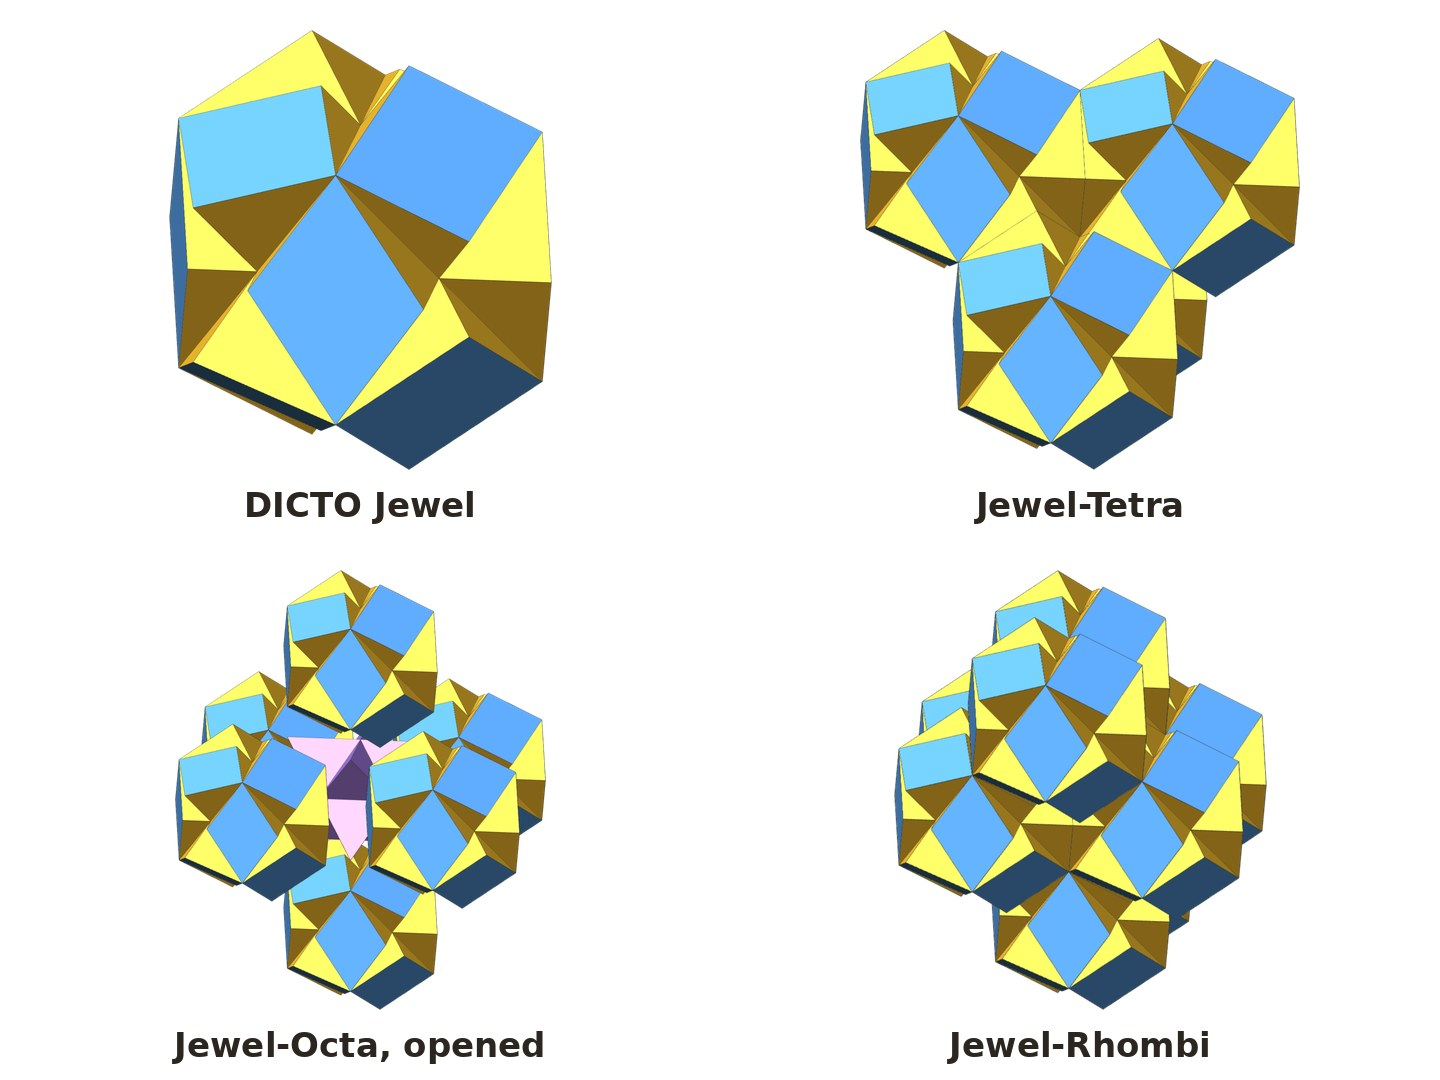
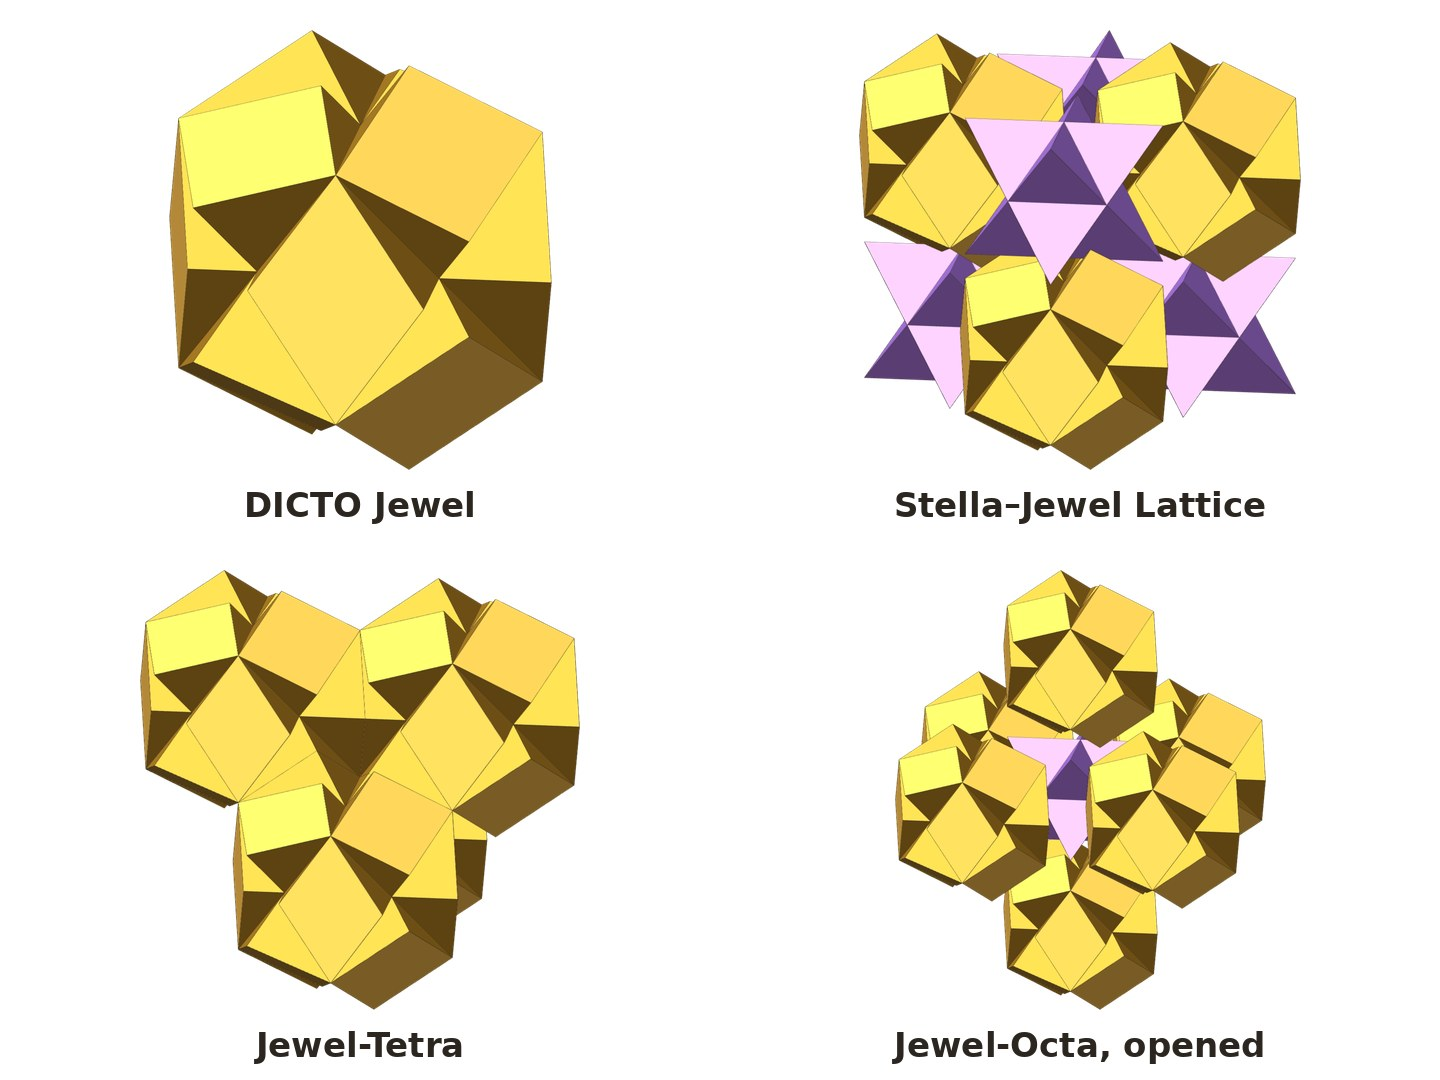
#41 card image in the app's gold and purple

diff --git a/index.html b/index.html
@@ -145,7 +145,7 @@
     <p class="disc-note">Short papers by DICTO, with the checks behind every claim.</p>
     <div class="papers">
       <div class="paper feature"><img src="papers/vajrayana.jpg?v=3" alt="Vajrayana: the Cleo star build pulled apart, assembled inside the dodecahedron D′, and in the cycle; below, the twelve stations of the golden cycle at true scale" loading="eager" width="1776" height="999"><span class="t"><span class="num">#35</span> Vajrayana</span><span class="s">A companion to Progenitors. The dodecahedron returns inside the golden cycle as the hull of DICTO's Cleo star, filled exactly by 82 pieces of four kinds. The last loose step, from the rhombic triacontahedron to the next icosahedron, is closed by a new solid that touches both, the DICTO Metaxyhexecontahedron, each of its two layers one kind of piece. The cycle grows to twelve stations. Exact in every step.</span><span class="pdoi"><a class="doi-badge" href="https://doi.org/10.5281/zenodo.23429911" title="DICTO DOI, always the newest version"><span>DICTO DOI</span><span>10.5281/zenodo.23429911</span></a></span><span class="btns"><a class="btn" href="https://doi.org/10.5281/zenodo.23429911">Read paper</a><a class="btn" href="https://kaleidohedra.dictospheres.com/?open=vajrayana">View in app</a></span></div>
-      <div class="paper"><img src="papers/dicto-jewel.jpg?v=1" alt="The DICTO Jewel, the DICTO Jewel-Tetra, the DICTO Jewel-Octa opened to show its stella, and the DICTO Jewel-Rhombi" loading="lazy" width="1440" height="1080"><span class="t"><span class="num">#41</span> The DICTO Jewel</span><span class="s">Euclid's dodecahedron carved by its neighbours' stellas: twelve Penrose windows, volume exactly 3/16 of a Hexa's cube, and with stellas it fills space. The Jewel-Tetra, Jewel-Octa and Jewel-Rhombi as single solids, every way they tile with loose stellas, the octet pattern, and the Hexa and Hexa-Key, all proved exactly.</span><span class="pdoi"><a class="doi-badge" href="https://doi.org/10.5281/zenodo.23496353" title="DICTO DOI, always the newest version"><span>DICTO DOI</span><span>10.5281/zenodo.23496353</span></a></span><span class="btns"><a class="btn" href="https://doi.org/10.5281/zenodo.23496353">Read paper</a><a class="btn" href="https://kaleidohedra.dictospheres.com/?open=stellaJewel">View in app</a></span></div>
+      <div class="paper"><img src="papers/dicto-jewel.jpg?v=2" alt="The DICTO Jewel, the Stella–Jewel Lattice (gold Jewels, purple stellas), the DICTO Jewel-Tetra, and the DICTO Jewel-Octa opened to show its stella" loading="lazy" width="1440" height="1080"><span class="t"><span class="num">#41</span> The DICTO Jewel</span><span class="s">Euclid's dodecahedron carved by its neighbours' stellas: twelve Penrose windows, volume exactly 3/16 of a Hexa's cube, and with stellas it fills space. The Jewel-Tetra, Jewel-Octa and Jewel-Rhombi as single solids, every way they tile with loose stellas, the octet pattern, and the Hexa and Hexa-Key, all proved exactly.</span><span class="pdoi"><a class="doi-badge" href="https://doi.org/10.5281/zenodo.23496353" title="DICTO DOI, always the newest version"><span>DICTO DOI</span><span>10.5281/zenodo.23496353</span></a></span><span class="btns"><a class="btn" href="https://doi.org/10.5281/zenodo.23496353">Read paper</a><a class="btn" href="https://kaleidohedra.dictospheres.com/?open=stellaJewel">View in app</a></span></div>
       <div class="paper"><img src="papers/og-polytypes.jpg?v=1" alt="The DICTO OG Family on Every Stacking: OGs on the 3C, 2H, 6H and Fibonacci stackings, mirror twins in blue" loading="lazy" width="1440" height="1080"><span class="t"><span class="num">#40</span> The DICTO OG Family on Every Stacking</span><span class="s">The OG on every stacking: one exact kit builds the octet, the gyrated octet, the classical polytypes and a Fibonacci crystal that never repeats. Two short rules say why: the twin rule (the mirror twin is the solid turned 60°, the spinel law) and the fit rule (a solid that stays in its layer fits every stacking). The DBT fits every stacking; its two flat cuts are exactly what the golden envelope lacks.</span><span class="pdoi"><a class="doi-badge" href="https://doi.org/10.5281/zenodo.23490114" title="DICTO DOI, always the newest version"><span>DICTO DOI</span><span>10.5281/zenodo.23490114</span></a></span><span class="btns"><a class="btn" href="https://doi.org/10.5281/zenodo.23490114">Read paper</a><a class="btn" href="https://kaleidohedra.dictospheres.com/?open=octetTruss:gyrated">View in app</a></span></div>
       <div class="paper"><img src="papers/og-family.jpg?v=1" alt="The DICTO OG Family: four solids down (DICTO TQHD, TQP, TQH, TPH), the OG, and four up (DICTO KRE, PHE, TPP, DPHP), true relative size" loading="lazy" width="1440" height="1080"><span class="t"><span class="num">#39</span> The DICTO OG Family</span><span class="s">Four Steps Up and Four Down. Universal PiTet's step run from the Ogdoecontahedron, outward and in reverse: eight new icosahedral solids, the DICTO KRE, PHE, TPP and DPHP up and the DICTO TPH, TQH, TQP and TQHD down, all exact. Near the OG the shells nest and are filled exactly by one piece per face; then both directions break the same way, 60 corners poking through.</span><span class="pdoi"><a class="doi-badge" href="https://doi.org/10.5281/zenodo.23488944" title="DICTO DOI, always the newest version"><span>DICTO DOI</span><span>10.5281/zenodo.23488944</span></a></span><span class="btns"><a class="btn" href="https://doi.org/10.5281/zenodo.23488944">Read paper</a><a class="btn" href="https://kaleidohedra.dictospheres.com/?open=up:ogUp">View in app</a></span></div>
       <div class="paper"><img src="papers/universal-pitet.jpg?v=2" alt="Universal PiTet: one turn of the endless cycle cut away (icosidodecahedron, rhombic triacontahedron, DICTO GTI, DICTO FPD); the shells from the Cleo star; the five-sided Vajras; the hexagonal Cleos" loading="lazy" width="1440" height="1080"><span class="t"><span class="num">#38</span> Universal PiTet</span><span class="s">The DICTO PiTet Proposition. From the Cleo star outward in spherical shells: each new solid has its faces through the last one's corners, and the icosidodecahedron, rhombic triacontahedron, DICTO GTI and DICTO FPD return as the icosidodecahedron exactly 10/φ⁴ larger, for ever. The cycle is its own polar; every shell is filled by exact pieces, with five-sided Vajras and pure hexagonal Cleos on the way. Exact in every step.</span><span class="pdoi"><a class="doi-badge" href="https://doi.org/10.5281/zenodo.23463305" title="DICTO DOI, always the newest version"><span>DICTO DOI</span><span>10.5281/zenodo.23463305</span></a></span><span class="btns"><a class="btn" href="https://doi.org/10.5281/zenodo.23463305">Read paper</a><a class="btn" href="https://kaleidohedra.dictospheres.com/?open=up">View in app</a></span></div>
